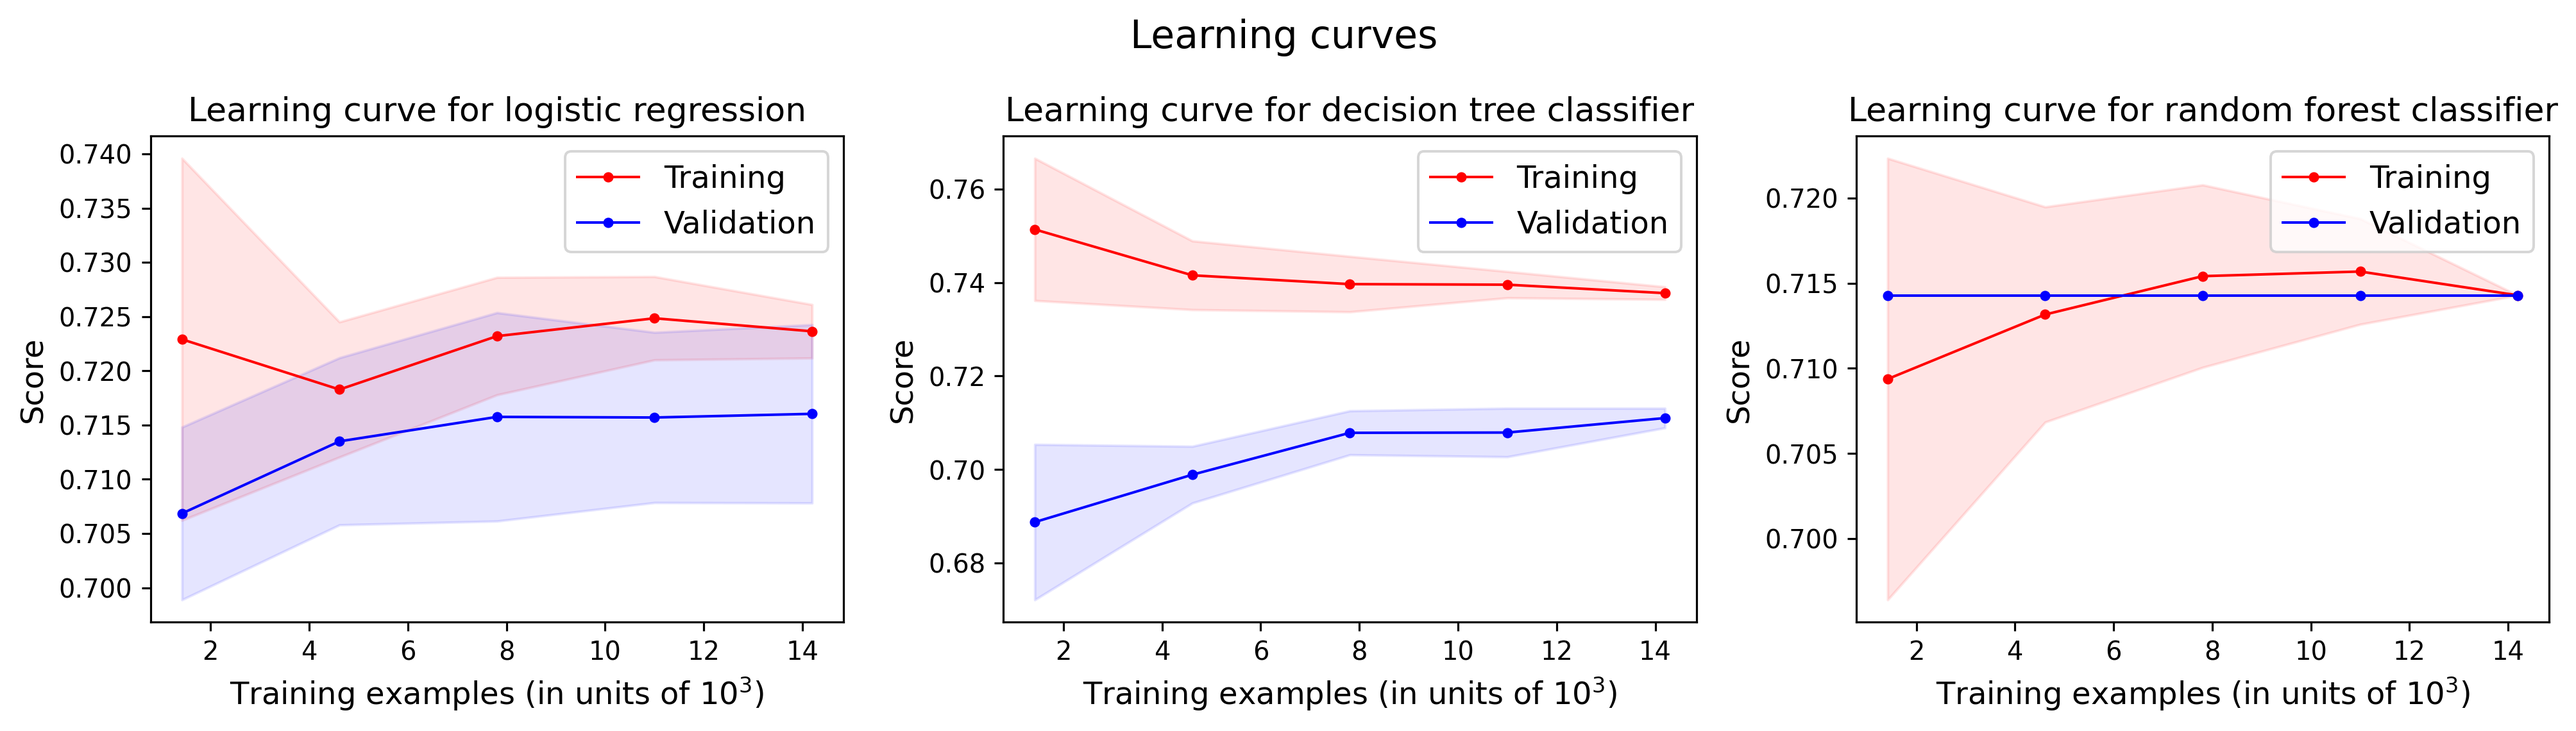
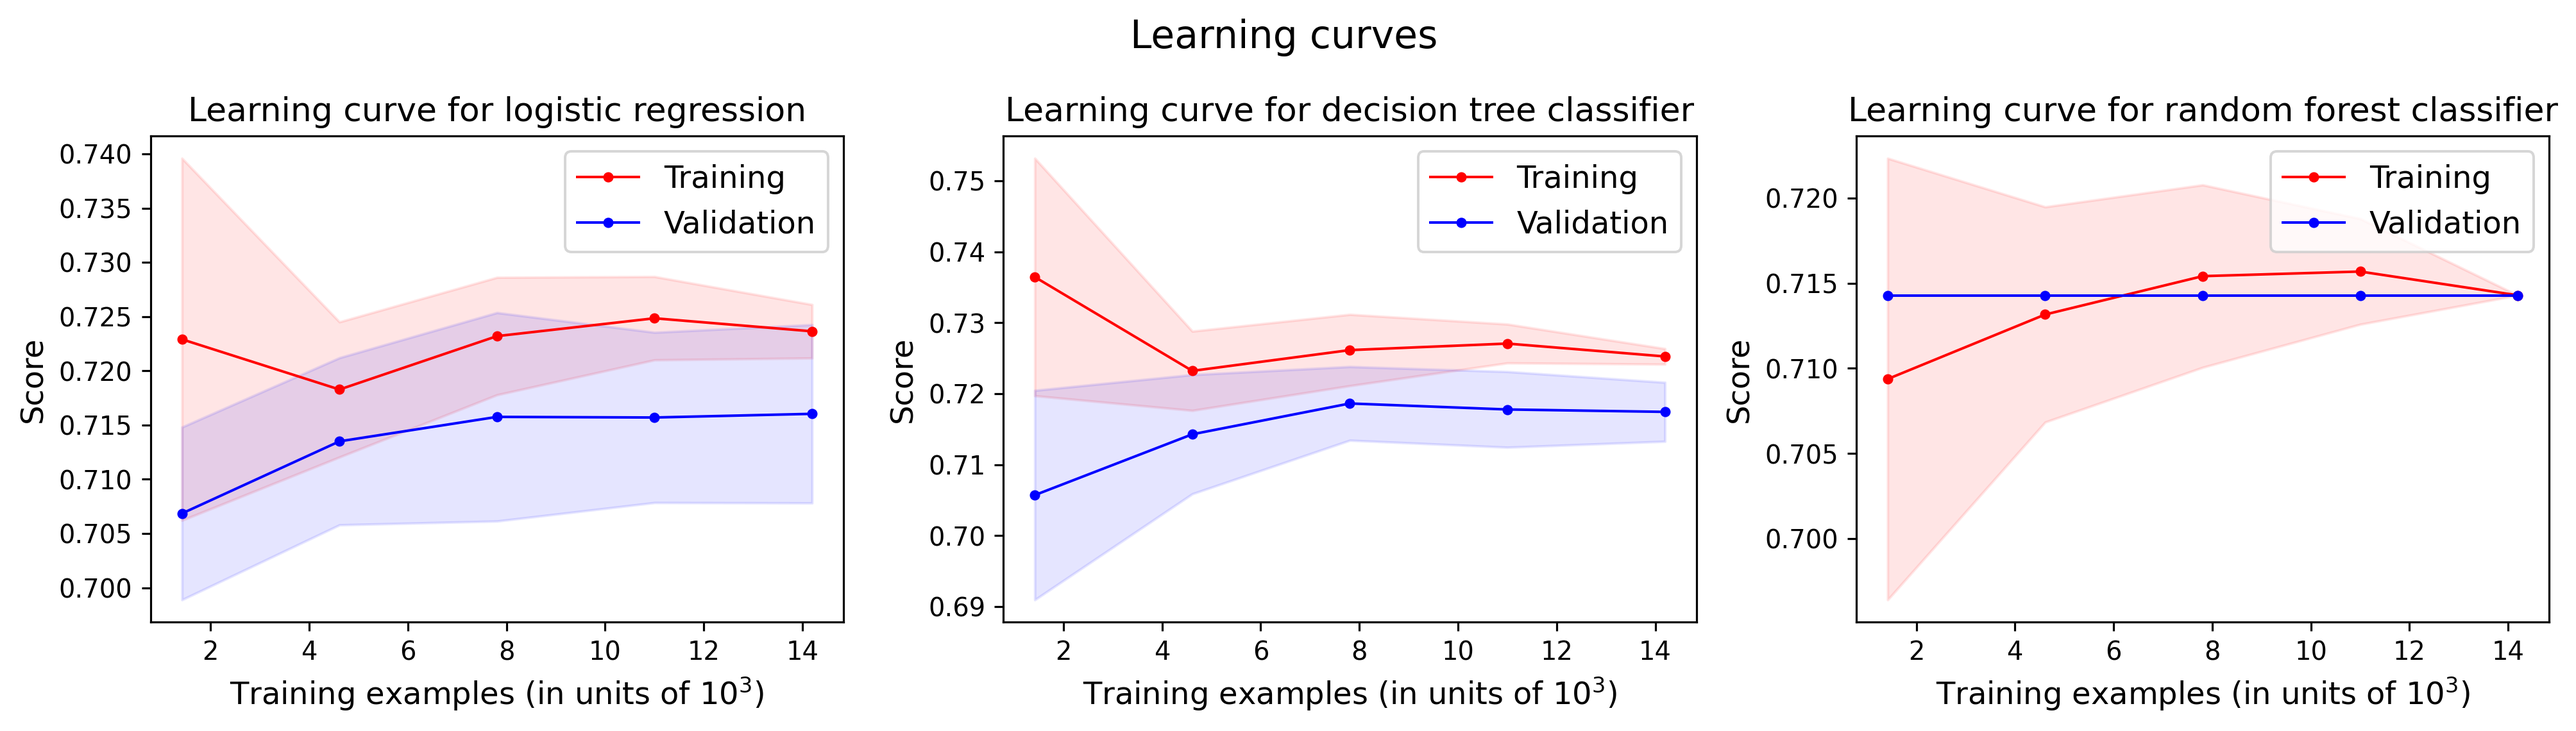
Using 'balanced_accuracy' scoring in hyperparameter optimization

diff --git a/grid_search.py b/grid_search.py
@@ -57,7 +57,7 @@ def calculate_best_parameters(clf, param_grid):
     grid_search = GridSearchCV(clf, param_grid, cv=5,
                                return_train_score=True,
                                verbose=1, n_jobs=-1,
-                               scoring='f1')
+                               scoring='balanced_accuracy')
     # using entire dataset for grid search
     grid_search.fit(X_train_resampled, y_train_resampled)
     print(f'Best parameters for {clf.__class__.__name__}: '
